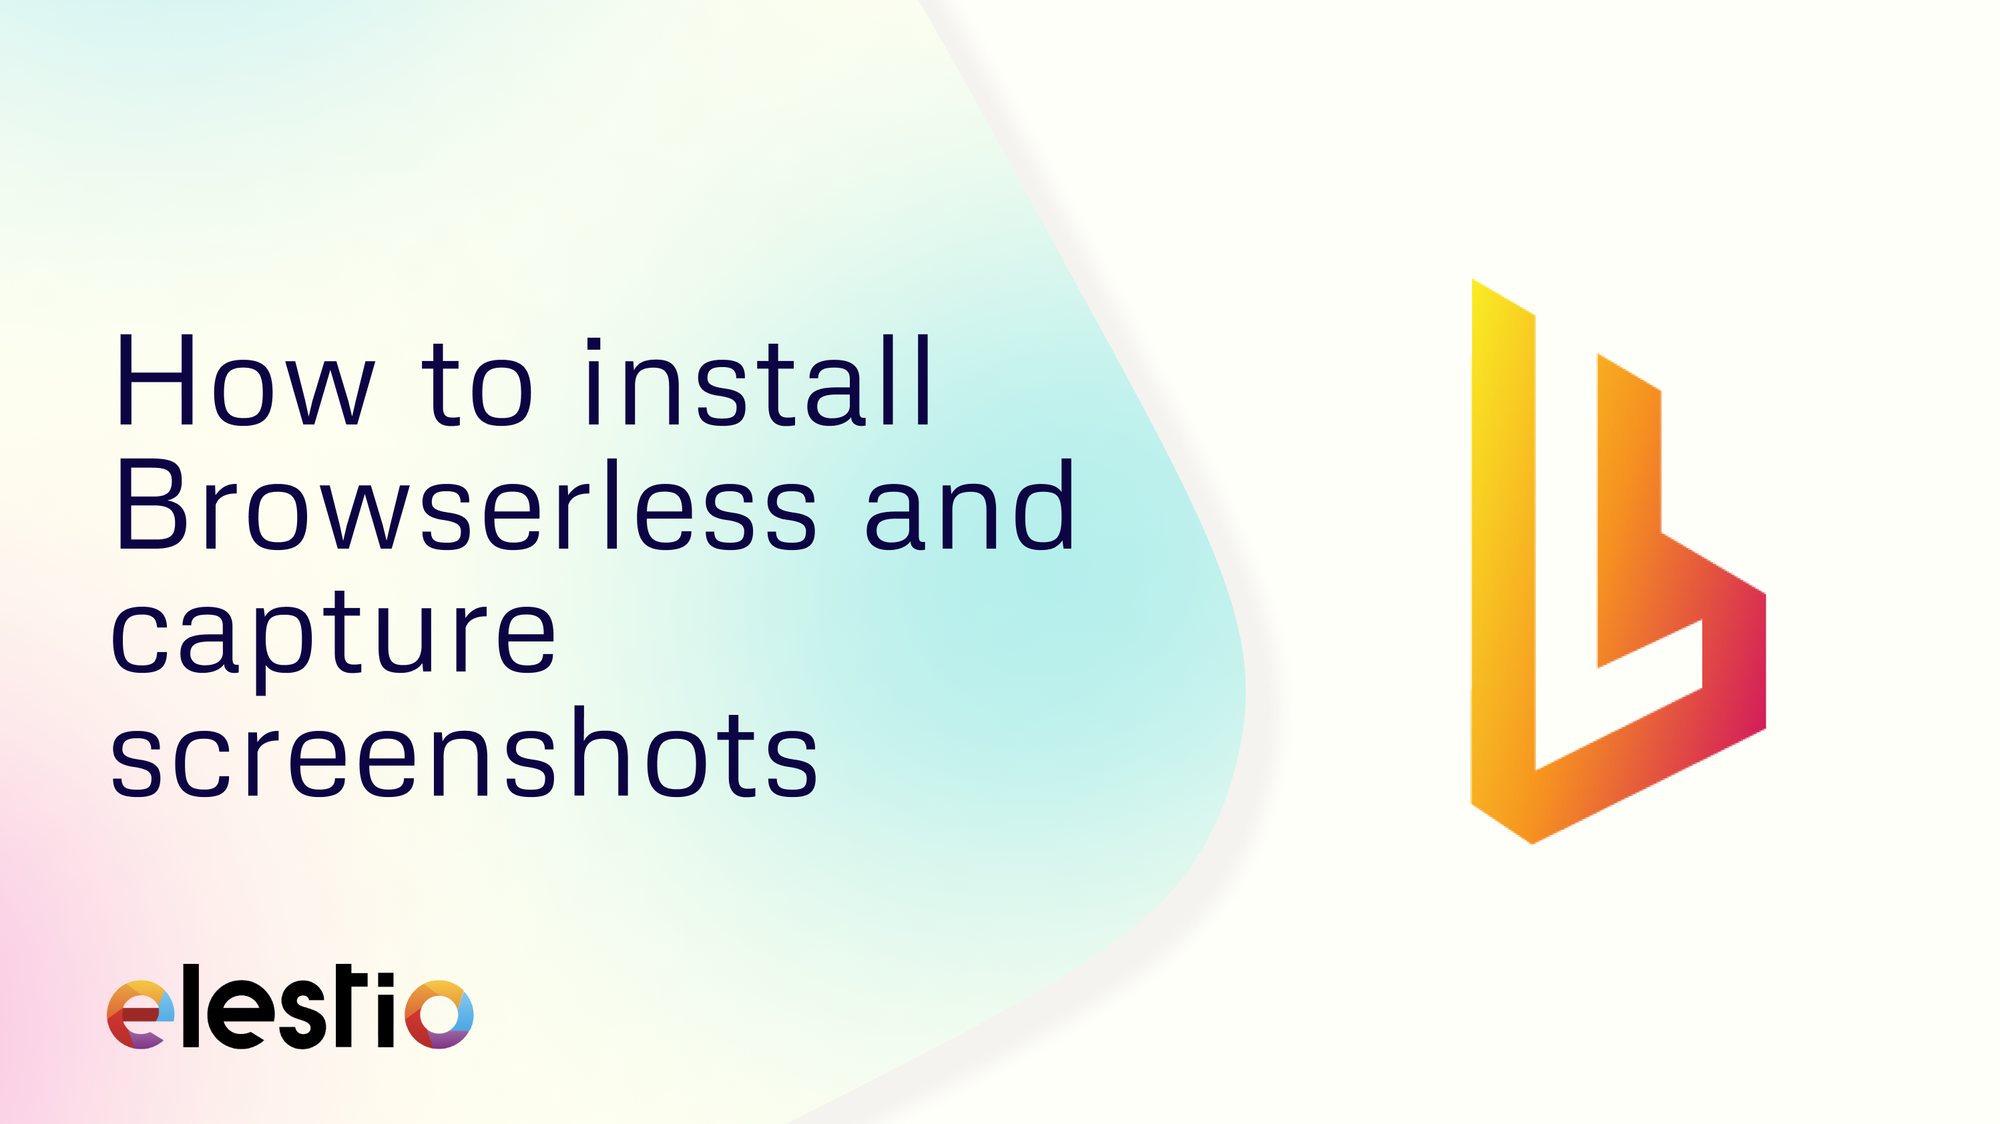
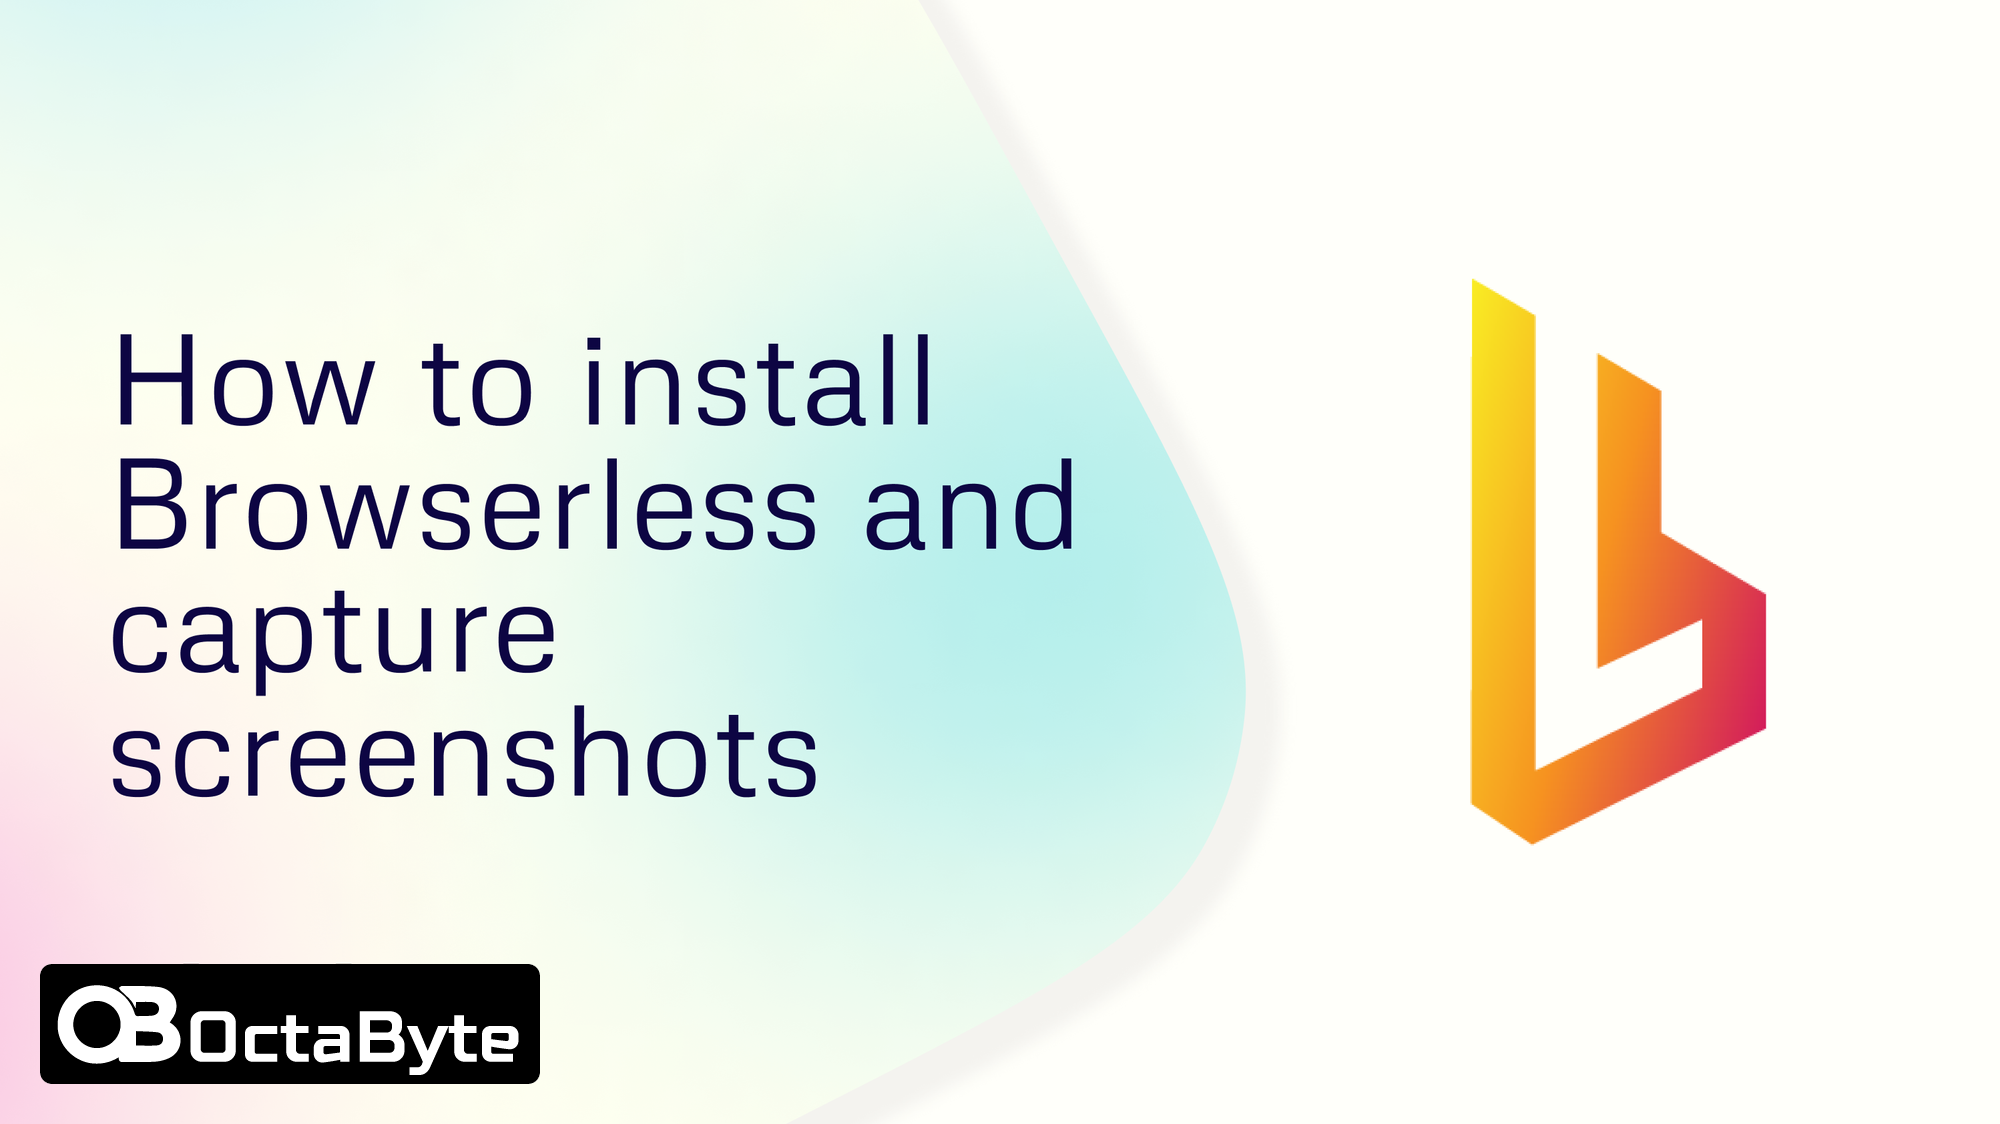
browserless

Changed region(s): [[0.0, 0.8407, 0.279, 0.9653]]

diff --git a/scripts/banner.py b/scripts/banner.py
@@ -1,0 +1,34 @@
+from PIL import Image
+
+post_name = "browserless/how-to-use-browserless-with-n8n-to-capture-screenshots"
+
+# Paths to images
+banner_path = "../static/images/octabyte-banner.png"
+cover_path = f"../content/posts/{post_name}/images/cover.png"
+output_path = f"../content/posts/{post_name}/images/cover_with_banner.png"
+
+# Open images
+cover_image = Image.open(cover_path)
+banner_image = Image.open(banner_path)
+
+# Get dimensions of the images
+cover_width, cover_height = cover_image.size
+banner_width, banner_height = banner_image.size
+
+# Calculate position for the banner
+# Left side, a little above the bottom
+x_position = 40  # Left side
+y_position = cover_height - banner_height - 40  # 10 pixels above the bottom
+
+# Ensure the banner fits within the cover image (optional resizing)
+if banner_width > cover_width:
+    banner_image = banner_image.resize((cover_width, int(banner_height * cover_width / banner_width)))
+    banner_width, banner_height = banner_image.size
+
+# Paste the banner onto the cover image
+cover_image.paste(banner_image, (x_position, y_position), banner_image if banner_image.mode == 'RGBA' else None)
+
+# Save the resulting image
+cover_image.save(output_path)
+
+print(f"Image saved with the banner at: {output_path}")

diff --git a/content/posts/browserless/how-to-use-browserless-with-n8n-to-capture-screenshots/index.md b/content/posts/browserless/how-to-use-browserless-with-n8n-to-capture-screenshots/index.md
@@ -1,24 +1,20 @@
 ---
-draft: true
+draft: false
 title: "How to use Browserless with N8N to capture screenshots"
-date: "2024-04-20"
-description: "Let's see how you can create an application that makes HTTP requests to Browserless and get screenshots. During this tutorial, we will be building the workflow from scratch. Before we start, ensure you have deployed N8N, we will be self-hosting it on Elestio.
-
-
-What is N8N?
-
-N8N is"
-tags: []
-categories: [Network, No-code, Low-code]
+date: "2024-11-18"
+description: "Learn how to use N8N and Browserless to create automated workflows for web screenshot tasks. This tutorial covers deploying N8N on OctaByte, setting up Browserless, and building a workflow to capture screenshots programmatically."
+tags: [N8N, Browserless, automation, workflow, web scraping, headless browser, screenshots, OctaByte, tutorial, open-source]
+categories: [Development, Network, No-code, Low-code]
 cover:
   image: images/cover.png
   caption: "How to use Browserless with N8N to capture screenshots"
+  relative: true
 ShowToc: true
 TocOpen: true
 ---
 
 
-Let's see how you can create an application that makes HTTP requests to [Browserless](https://elest.io/open-source/browserless?ref=blog.elest.io) and get screenshots. During this tutorial, we will be building the workflow from scratch. Before we start, ensure you have deployed N8N, we will be self\-hosting it on [Elestio](https://elest.io/open-source/n8n?ref=blog.elest.io).
+Let's see how you can create an application that makes HTTP requests to [Browserless](https://octabyte.io/development/network/browserless) and get screenshots. During this tutorial, we will be building the workflow from scratch. Before we start, ensure you have deployed N8N, we will be self\-hosting it on [OctaByte](https://octabyte.io/applications/automation/n8n).
 
 ## What is N8N?
 
@@ -30,7 +26,7 @@ Browserless is a service and platform that provides remote, headless browser aut
 
 ## Creating Browserless Application
 
-If you are building a Browserless Application along with this tutorial then we would recommend you go ahead and create an instance on [Elestio](https://elest.io/open-source/browserless?ref=blog.elest.io). Once you log into the Browserless instance using the credentials provided on the Elestio dashboard, you will be presented with the dashboard with some example scripts. One we will be using is Screenshot.
+If you are building a Browserless Application along with this tutorial then we would recommend you go ahead and create an instance on [OctaByte](https://octabyte.io/development/network/browserless). Once you log into the Browserless instance using the credentials provided on the OctaByte dashboard, you will be presented with the dashboard with some example scripts. One we will be using is Screenshot.
 
 ![Browserless Service Home page](images/Screenshot-2024-05-29-at-11.54.30-AM.jpg)If the script is unavailable for some reason, you can create a new script page and add the following script.
 
@@ -49,9 +45,9 @@ export default async ({ page }: { page: Page }) => {
 ```
 ## Setting Up N8N
 
-Log into the N8N instance using the credentials provided in the Elestio dashboard. Once logged in, add three components as shown below. To keep the tutorial simple, we will just convert the HTML page into a markdown after receiving the response from the HTTP request.
+Log into the N8N instance using the credentials provided in the OctaByte dashboard. Once logged in, add three components as shown below. To keep the tutorial simple, we will just convert the HTML page into a markdown after receiving the response from the HTTP request.
 
-![Final Workflow](https://blog.elest.io/content/images/2024/05/Screenshot-2024-05-29-at-11.55.31-AM.jpg)Now, head over to the **HTTP Request** component and configure the following follows
+![Final Workflow](images/Screenshot-2024-05-29-at-11.55.31-AM.jpg)Now, head over to the **HTTP Request** component and configure the following follows
 
 **Method:** GET
 
@@ -59,7 +55,7 @@ Log into the N8N instance using the credentials provided in the Elestio dashboar
 
 **Authentication:** None
 
-![Configuring HTTP Request](https://blog.elest.io/content/images/2024/05/Screenshot-2024-05-29-at-11.55.51-AM.jpg)Next head over to the **Markdown** component and configure it as follows. 
+![Configuring HTTP Request](images/Screenshot-2024-05-29-at-11.55.51-AM.jpg)Next head over to the **Markdown** component and configure it as follows. 
 
 💡Remember this component is changeable according to the need of your application. You can also use the built\-in [Browserless integration](https://n8n.io/integrations/browserless/?ref=blog.elest.io) on N8N.**Mode:** HTML to Markdown
 
@@ -67,11 +63,10 @@ Log into the N8N instance using the credentials provided in the Elestio dashboar
 
 **Destination Key**: data
 
-![Setting up the Markdown component](https://blog.elest.io/content/images/2024/05/Screenshot-2024-05-29-at-11.56.04-AM.jpg)And done! The following window shows the landing HTML page for now but can be configured to invoke specific scripts and receive the responses. You can form multiple such workflows based on the script type.
+![Setting up the Markdown component](images/Screenshot-2024-05-29-at-11.56.04-AM.jpg)And done! The following window shows the landing HTML page for now but can be configured to invoke specific scripts and receive the responses. You can form multiple such workflows based on the script type.
 
-![Final output screen](https://blog.elest.io/content/images/2024/05/Screenshot-2024-05-29-at-11.56.23-AM.jpg)## **Thanks for reading ❤**
+![Final output screen](images/Screenshot-2024-05-29-at-11.56.23-AM.jpg)## **Thanks for reading ❤**
 
-Thank you so much for reading and do check out the Elestio resources and Official [N8N documentation](https://docs.n8n.io/?ref=blog.elest.io) to learn more about N8N. You can click the button below to create your service on [Elestio](https://elest.io/open-source/n8n?ref=blog.elest.io) and create a workflow to get screenshots from the web. See you in the next one👋
+Thank you so much for reading and do check out the OctaByte resources and Official [N8N documentation](https://docs.n8n.io/?ref=blog.elest.io) to learn more about N8N. You can click the button below to create your service on [OctaByte](https://octabyte.io/applications/automation/n8n) and create a workflow to get screenshots from the web. See you in the next one👋
 
-[![](https://pub-da36157c854648669813f3f76c526c2b.r2.dev/deploy-on-elestio-black.png)](https://elest.io/open-source/n8n?ref=blog.elest.io)
-
+[![Deploy on OctaByte](/images/octabyte-deploy2.png)](https://octabyte.io/start-trial/?service=Bigcapital)

diff --git a/content/posts/baas showdown/best-free-open-source-backend-as-a-service-solutions/index.md b/content/posts/baas showdown/best-free-open-source-backend-as-a-service-solutions/index.md
@@ -1,19 +1,14 @@
 ---
-draft: true
+draft: false
 title: "BaaS Showdown: A Comprehensive Look at 5 Top Open Source Solutions"
-date: "2024-11-28"
-description: "Backend as a Service is the solution for developers who want to focus on building web and mobile apps without worrying about the backend infrastructure.
-
-
-BaaS providers offer a set of tools and services that help developers build apps faster and easier.
-
-
-It generally includes Database, Authentication, File Storage, Cloud"
-tags: []
-categories: [Other]
+date: "2024-11-18"
+description: "Discover the best open-source Backend as a Service (BaaS) solutions to simplify app development. Compare Appwrite, Directus, Parse, PocketBase, and Supabase based on features like authentication, database support, file storage, and more. Learn how these platforms help developers focus on building apps while handling backend infrastructure."
+tags: [BaaS, App Development, Open Source, Backend Solutions, Appwrite, Directus, Parse, PocketBase, Supabase, Authentication, File Storage, Database, Realtime, Cloud Functions, Push Notifications, App Comparison, Developer Tools]
+categories: [Applications, Development]
 cover:
   image: images/cover.png
   caption: "BaaS Showdown: A Comprehensive Look at 5 Top Open Source Solutions"
+  relative: true
 ShowToc: true
 TocOpen: true
 ---
@@ -36,7 +31,7 @@ Now, the question is which BaaS solution is the best for your app?
 
 Today we will compare 5 Open Source Backend as a Service solutions and find out which one is the best for your app:  
 
-[Appwrite](https://elest.io/open-source/appwrite?ref=blog.elest.io), [Directus](https://elest.io/open-source/directus?ref=blog.elest.io), [Parse](https://elest.io/open-source/parse?ref=blog.elest.io), [PocketBase](https://elest.io/open-source/pocketbase?ref=blog.elest.io), and [Supabase](https://elest.io/open-source/appwrite?ref=blog.elest.io).
+[Appwrite](https://octabyte.io/development/backend-as-a-service/appwrite), [Directus](https://octabyte.io/applications/cms/directus), [Parse](https://octabyte.io/development/backend-as-a-service/parse), [PocketBase](https://octabyte.io/development/backend-as-a-service/pocketbase), and [Supabase](https://octabyte.io/development/backend-as-a-service/supabase).
 
 
 
@@ -222,10 +217,10 @@ I would put Parse slightly behind the others, it's a great solution but it's a b
 Our biggest recommendation is to try them before making a decision. They are all open source and free to use, so you can try them and see which one fits your needs better.
 
 
-Each are available as fully managed services on our platform Elestio, which means we take care of the setup, backups, updates, maintenance, and hosting for you.
+Each are available as fully managed services on our platform OctaByte, which means we take care of the setup, backups, updates, maintenance, and hosting for you.
 
 
-[Give it a try on Elestio](https://elest.io/?ref=blog.elest.io)
+[Give it a try on OctaByte](https://octabyte.io)
 
 
 

diff --git a/content/posts/bigcapital/bigcapital-open-source-invoicing-accounting-solution/index.md b/content/posts/bigcapital/bigcapital-open-source-invoicing-accounting-solution/index.md
@@ -1,24 +1,20 @@
 ---
-draft: true
+draft: false
 title: "Bigcapital: Open Source Invoicing & Accounting Solution"
-date: "2024-01-22"
-description: "Bigcapital is an innovative online accounting software to automate business financial processes. Including all the required features and beyond, it empowers businesses to take control of their bookkeeping and make informed decisions quickly.
-
-
-Sales & Purchases Invoicing
-
-Managing invoices is made easy with Bigcapital. Whether it's creating sell"
-tags: []
-categories: [Invoicing and payments]
+date: "2024-11-18"
+description: "Bigcapital is an innovative online accounting software designed to streamline financial processes for businesses. It offers features like sales and purchase invoicing, inventory management, multi-currency transactions, expense tracking, financial reporting, and role-based user collaboration, empowering businesses to make informed decisions efficiently."
+tags: [Bigcapital, accounting software, invoicing, inventory management, financial reports, expense tracking, multi-currency, bookkeeping, business tools, automation]
+categories: [Applications, Invoicing and payments]
 cover:
   image: images/cover.png
   caption: "Bigcapital: Open Source Invoicing & Accounting Solution"
+  relative: true
 ShowToc: true
 TocOpen: true
 ---
 
 
-[Bigcapital](https://elest.io/open-source/bigcapital?ref=blog.elest.io) is an innovative online accounting software to automate business financial processes. Including all the required features and beyond, it empowers businesses to take control of their bookkeeping and make informed decisions quickly.
+[Bigcapital](https://octabyte.io/applications/invoicing-and-payments/bigcapital) is an innovative online accounting software to automate business financial processes. Including all the required features and beyond, it empowers businesses to take control of their bookkeeping and make informed decisions quickly.
 
 
 
@@ -56,7 +52,7 @@ Conducting transactions in multiple currencies is made simple with Bigcapital. Y
 
 In conclusion, Bigcapital is more than just an invoicing and accounting solution—it's a powerful tool that empowers businesses to streamline their financial processes, make data\-driven decisions, and achieve greater efficiency. With its user\-friendly interface and robust features, Bigcapital is the ideal choice for businesses looking to take their financial management to the next level.
 
-[Start using Bigcapital on Elestio.](https://elest.io/open-source/bigcapital?ref=blog.elest.io)
+[Start using Bigcapital on OctaByte.](https://octabyte.io/start-trial/?service=Bigcapital)
 
 
 
